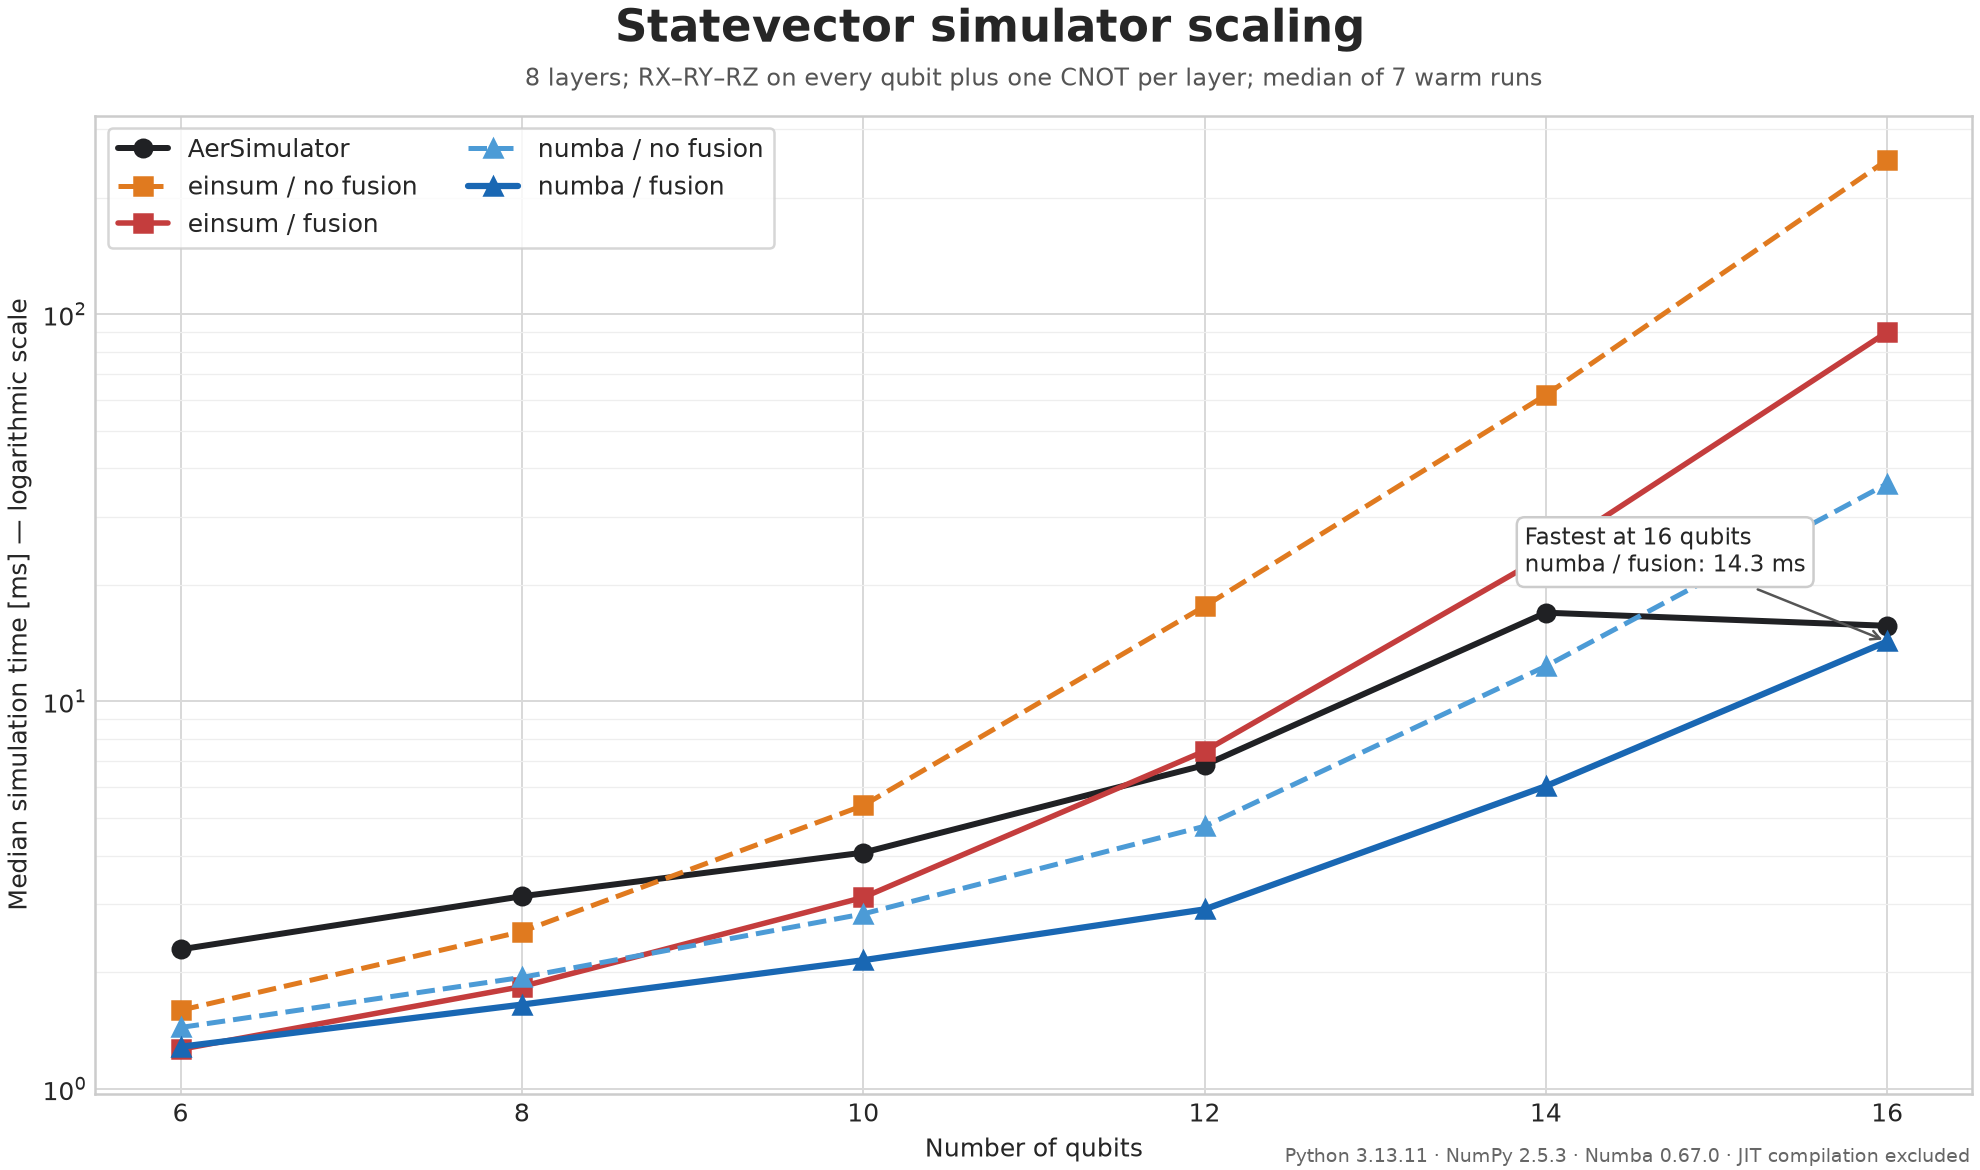
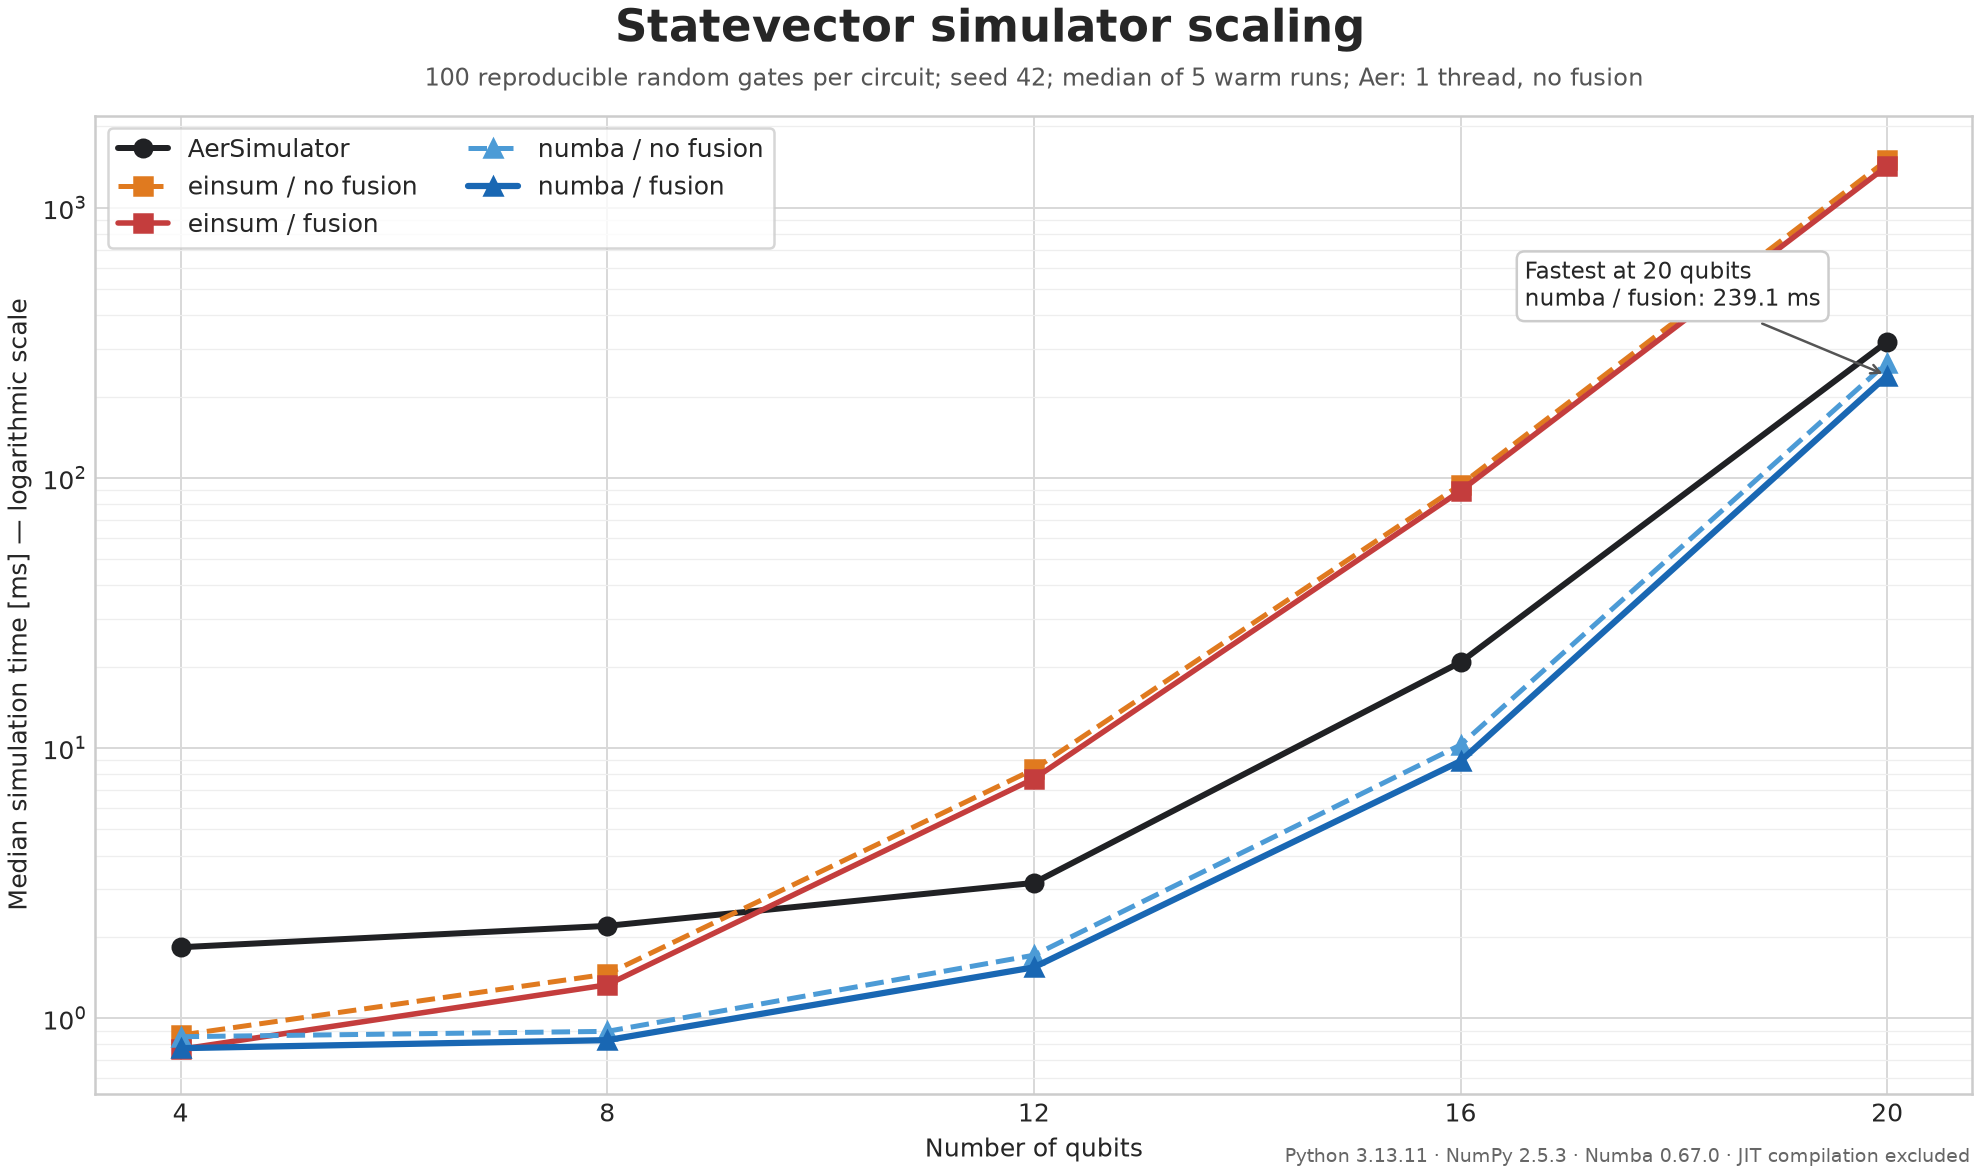
feat: update benchmarks to use reproducible random circuits with configurable gate counts and seeds

diff --git a/benchmarks/benchmark_simulators.py b/benchmarks/benchmark_simulators.py
@@ -2,7 +2,7 @@
 
 Run from the project root, for example:
 
-    uv run python benchmarks/benchmark_simulators.py --qubits 14 --layers 8
+    uv run python benchmarks/benchmark_simulators.py --qubits 14 --gates 100
 
 Numba compilation is performed during warm-up and is not part of the reported
 timings. Every implementation is checked against Aer's statevector first.
@@ -28,25 +28,40 @@ from quantum_circuit_simulator.simulator import StatevectorSimulator
 Runner = Callable[[], SimulationResult]
 
 
-def build_benchmark_circuit(num_qubits: int, layers: int) -> QuantumCircuit:
-    """Build a deterministic circuit containing fusion groups and CNOTs."""
+def build_random_benchmark_circuit(
+    num_qubits: int,
+    gate_count: int,
+    seed: int,
+) -> QuantumCircuit:
+    """Build a reproducible random circuit from the supported gate set."""
     if num_qubits < 2:
         raise ValueError("num_qubits must be at least 2")
-    if layers < 1:
-        raise ValueError("layers must be at least 1")
+    if gate_count < 1:
+        raise ValueError("gate_count must be at least 1")
 
+    random_generator = np.random.default_rng(seed)
     circuit = QuantumCircuit(num_qubits)
-    for layer in range(layers):
-        for qubit in range(num_qubits):
-            angle = (layer + 1) * (qubit + 1) / (num_qubits * layers)
-            # These consecutive gates form one useful fusion group per qubit.
-            circuit.rx(angle, qubit)
-            circuit.ry(-angle / 2, qubit)
-            circuit.rz(angle / 3, qubit)
+    single_qubit_gates = ("h", "x", "sx", "rx", "ry", "rz")
 
-        control = layer % num_qubits
-        target = (layer + 1) % num_qubits
-        circuit.cx(control, target)
+    for _ in range(gate_count):
+        # Most operations are single-qubit gates. CNOTs occur often enough to
+        # create realistic fusion boundaries without dominating the circuit.
+        if random_generator.random() < 0.8:
+            target = int(random_generator.integers(num_qubits))
+            gate_name = str(random_generator.choice(single_qubit_gates))
+            if gate_name in ("rx", "ry", "rz"):
+                angle = float(random_generator.uniform(-np.pi, np.pi))
+                getattr(circuit, gate_name)(angle, target)
+            else:
+                getattr(circuit, gate_name)(target)
+            continue
+
+        control, target = random_generator.choice(
+            num_qubits,
+            size=2,
+            replace=False,
+        )
+        circuit.cx(int(control), int(target))
 
     return circuit
 
@@ -119,9 +134,10 @@ def format_table(
 
 def collect_benchmark(
     num_qubits: int,
-    layers: int,
+    gate_count: int,
     repeats: int,
     warmups: int,
+    seed: int,
 ) -> tuple[QuantumCircuit, dict[str, list[float]]]:
     """Validate and measure all variants for one circuit size."""
     if repeats < 1:
@@ -129,12 +145,24 @@ def collect_benchmark(
     if warmups < 1:
         raise ValueError("warmups must be at least 1")
 
-    circuit = build_benchmark_circuit(num_qubits, layers)
-    config = SimulationConfig(shots=1, seed=42)
+    circuit = build_random_benchmark_circuit(
+        num_qubits,
+        gate_count,
+        seed,
+    )
+    config = SimulationConfig(shots=1, seed=seed)
 
-    # Construct the Aer backend and its save instruction once, just like the
-    # custom simulator objects below. Object construction is not benchmarked.
-    aer = AerSimulator(method="statevector", seed_simulator=config.seed)
+    # Use Aer as a deliberately unoptimized reference: its internal gate
+    # fusion is disabled and one worker thread prevents parallel statevector
+    # updates. Object construction is not part of the measured runtime.
+    aer = AerSimulator(
+        method="statevector",
+        fusion_enable=False,
+        max_parallel_threads=1,
+        max_parallel_experiments=1,
+        max_parallel_shots=1,
+        seed_simulator=config.seed,
+    )
     aer_circuit = circuit.copy()
     aer_circuit.save_statevector()
 
@@ -178,16 +206,18 @@ def collect_benchmark(
 
 def run_benchmark(
     num_qubits: int,
-    layers: int,
+    gate_count: int,
     repeats: int,
     warmups: int,
+    seed: int,
 ) -> None:
     """Validate, warm up, time, and print all simulator variants."""
     circuit, timings = collect_benchmark(
         num_qubits=num_qubits,
-        layers=layers,
+        gate_count=gate_count,
         repeats=repeats,
         warmups=warmups,
+        seed=seed,
     )
 
     print(
@@ -195,8 +225,8 @@ def run_benchmark(
         f"Numba {numba.__version__}"
     )
     print(
-        f"Circuit: {num_qubits} qubits, {layers} layers, "
-        f"{len(circuit.data)} gates; {repeats} measured repetitions"
+        f"Circuit: {num_qubits} qubits, {len(circuit.data)} random gates, "
+        f"seed {seed}; {repeats} measured repetitions"
     )
     print()
     print(
@@ -212,9 +242,10 @@ def parse_args() -> argparse.Namespace:
     """Parse command-line settings for a reproducible benchmark run."""
     parser = argparse.ArgumentParser(description=__doc__)
     parser.add_argument("--qubits", type=int, default=14)
-    parser.add_argument("--layers", type=int, default=8)
-    parser.add_argument("--repeats", type=int, default=7)
+    parser.add_argument("--gates", type=int, default=100)
+    parser.add_argument("--repeats", type=int, default=5)
     parser.add_argument("--warmups", type=int, default=2)
+    parser.add_argument("--seed", type=int, default=42)
     return parser.parse_args()
 
 
@@ -222,7 +253,8 @@ if __name__ == "__main__":
     arguments = parse_args()
     run_benchmark(
         num_qubits=arguments.qubits,
-        layers=arguments.layers,
+        gate_count=arguments.gates,
         repeats=arguments.repeats,
         warmups=arguments.warmups,
+        seed=arguments.seed,
     )

diff --git a/benchmarks/plot_benchmarks.py b/benchmarks/plot_benchmarks.py
@@ -59,9 +59,10 @@ METHOD_STYLES = {
 
 def collect_scaling_data(
     qubit_counts: list[int],
-    layers: int,
+    gate_count: int,
     repeats: int,
     warmups: int,
+    seed: int,
 ) -> dict[str, list[float]]:
     """Return median runtimes in milliseconds for every method and size."""
     medians_ms = {name: [] for name in METHOD_STYLES}
@@ -70,9 +71,10 @@ def collect_scaling_data(
         print(f"Benchmarking {num_qubits} qubits ...", flush=True)
         _, timings = collect_benchmark(
             num_qubits=num_qubits,
-            layers=layers,
+            gate_count=gate_count,
             repeats=repeats,
             warmups=warmups,
+            seed=seed,
         )
         for name in METHOD_STYLES:
             medians_ms[name].append(median(timings[name]) * 1_000)
@@ -88,7 +90,9 @@ def write_csv(
     """Store the plotted median values in a machine-readable CSV file."""
     output.parent.mkdir(parents=True, exist_ok=True)
     with output.open("w", newline="", encoding="utf-8") as csv_file:
-        writer = csv.writer(csv_file)
+        # Always use Unix line endings so regenerated results stay identical
+        # across Windows, macOS, and Linux checkouts.
+        writer = csv.writer(csv_file, lineterminator="\n")
         writer.writerow(["qubits", *medians_ms])
         for index, num_qubits in enumerate(qubit_counts):
             writer.writerow(
@@ -103,8 +107,9 @@ def create_plot(
     output: Path,
     qubit_counts: list[int],
     medians_ms: dict[str, list[float]],
-    layers: int,
+    gate_count: int,
     repeats: int,
+    seed: int,
 ) -> None:
     """Create a readable logarithmic scaling plot for the README."""
     plt.style.use("seaborn-v0_8-whitegrid")
@@ -130,8 +135,8 @@ def create_plot(
     )
     axis.set_title(
         (
-            f"{layers} layers; RX–RY–RZ on every qubit plus one CNOT per layer; "
-            f"median of {repeats} warm runs"
+            f"{gate_count} reproducible random gates per circuit; seed {seed}; "
+            f"median of {repeats} warm runs; Aer: 1 thread, no fusion"
         ),
         fontsize=9.5,
         color="#555555",
@@ -177,11 +182,12 @@ def parse_args() -> argparse.Namespace:
         "--qubits",
         type=int,
         nargs="+",
-        default=[6, 8, 10, 12, 14, 16],
+        default=[4, 8, 12, 16, 20],
     )
-    parser.add_argument("--layers", type=int, default=8)
-    parser.add_argument("--repeats", type=int, default=7)
+    parser.add_argument("--gates", type=int, default=100)
+    parser.add_argument("--repeats", type=int, default=5)
     parser.add_argument("--warmups", type=int, default=2)
+    parser.add_argument("--seed", type=int, default=42)
     parser.add_argument(
         "--output",
         type=Path,
@@ -199,17 +205,19 @@ if __name__ == "__main__":
     arguments = parse_args()
     data = collect_scaling_data(
         qubit_counts=arguments.qubits,
-        layers=arguments.layers,
+        gate_count=arguments.gates,
         repeats=arguments.repeats,
         warmups=arguments.warmups,
+        seed=arguments.seed,
     )
     write_csv(arguments.csv, arguments.qubits, data)
     create_plot(
         arguments.output,
         arguments.qubits,
         data,
-        arguments.layers,
+        arguments.gates,
         arguments.repeats,
+        arguments.seed,
     )
     print(f"Wrote plot to {arguments.output}")
     print(f"Wrote median data to {arguments.csv}")

diff --git a/docs/benchmarks.rst b/docs/benchmarks.rst
@@ -7,24 +7,31 @@ Ziel
 ``benchmarks/benchmark_simulators.py`` misst den vollständigen
 Simulationsaufruf für fünf Varianten:
 
-* Qiskit ``AerSimulator`` mit einem einmalig konstruierten Statevector-Backend;
+* Qiskit ``AerSimulator`` mit einem einmalig konstruierten Statevector-Backend,
+  deaktivierter Aer-Gate-Fusion und genau einem CPU-Thread;
 * NumPy-``einsum`` ohne Gate Fusion;
 * NumPy-``einsum`` mit Gate Fusion;
 * Numba ohne Gate Fusion;
 * Numba mit Gate Fusion.
 
-Der erzeugte Circuit enthält pro Qubit jeweils ``rx``, ``ry`` und ``rz`` als
-zusammenhängende Fusionsgruppe sowie ein CNOT pro Layer.
+Für jede Qubitzahl wird ein reproduzierbarer Zufallscircuit mit exakt 100
+Gates erzeugt. Mit einer Wahrscheinlichkeit von 80 % wird eines der
+Ein-Qubit-Gates ``h``, ``x``, ``sx``, ``rx``, ``ry`` oder ``rz`` auf ein
+zufälliges Qubit angewendet. Die übrigen 20 % sind CNOTs mit verschiedenen,
+zufällig gewählten Control- und Target-Qubits. Der feste Seed 42 macht die
+Circuits und damit den Vergleich reproduzierbar.
 
 Backendobjekte und die Aer-``save_statevector``-Instruktion werden vor der
 Messung einmalig vorbereitet. Gemessen wird bei allen Varianten nur der
 vollständige Simulationsaufruf mit bereits vorhandenem Circuit und Backend.
+Die Aer-Optionen ``fusion_enable=False`` und ``max_parallel_threads=1``
+verhindern dabei interne Gate Fusion und parallele Statevector-Updates.
 
 Skalierungsplot
 ---------------
 
-Der für die README erzeugte Plot vergleicht mehrere Qubitzahlen auf einer
-logarithmischen Zeitachse:
+Der für die README erzeugte Plot vergleicht standardmäßig 4, 8, 12, 16 und
+20 Qubits auf einer logarithmischen Zeitachse:
 
 .. image:: images/benchmark_simulators.png
    :alt: Laufzeitvergleich von Aer, einsum und Numba mit und ohne Gate Fusion
@@ -53,16 +60,21 @@ Parameter können über die Kommandozeile verändert werden:
 .. code-block:: console
 
    uv run python benchmarks/benchmark_simulators.py \
-       --qubits 16 \
-       --layers 10 \
-       --repeats 9 \
+       --qubits 20 \
+       --gates 100 \
+       --seed 42 \
+       --repeats 5 \
        --warmups 2
 
 ``--qubits``
    Anzahl der Qubits. Der Statevector besitzt :math:`2^n` Amplituden.
 
-``--layers``
-   Anzahl der Gate-Layer des deterministischen Benchmark-Circuits.
+``--gates``
+   Exakte Anzahl der zufällig erzeugten Gates im Circuit.
+
+``--seed``
+   Seed des Zufallszahlengenerators. Derselbe Seed erzeugt für dieselbe
+   Qubitzahl und Gate-Anzahl denselben Circuit.
 
 ``--repeats``
    Zahl der gemessenen vollständigen Simulationsläufe.

diff --git a/README.md b/README.md
@@ -82,8 +82,12 @@ result = simulator.simulate(circuit, SimulationConfig(shots=1_000, seed=42))
 
 Der folgende End-to-End-Benchmark vergleicht Qiskit Aer mit beiden eigenen
 Backends, jeweils mit und ohne Gate Fusion. Dargestellt ist der Median aus
-sieben warmen Läufen; die Numba-JIT-Kompilierung ist nicht Teil der Messung.
-Vor jeder Messung werden alle Statevectoren gegen Aer validiert.
+fünf warmen Läufen für 4, 8, 12, 16 und 20 Qubits. Jeder Circuit enthält
+exakt 100 mit Seed 42 reproduzierbar erzeugte Gates: ungefähr 80 % zufällige
+Ein-Qubit-Gates und 20 % CNOTs. Die Numba-JIT-Kompilierung ist nicht Teil der
+Messung. Für Aer sind die interne Gate Fusion und parallele Berechnung
+deaktiviert, sodass Aer einen CPU-Thread verwendet. Vor jeder Messung werden
+alle Statevectoren gegen Aer validiert.
 
 ![Skalierungsbenchmark der Simulationsmethoden](docs/images/benchmark_simulators.png)
 
@@ -98,9 +102,10 @@ Ein einzelner Benchmark mit tabellarischer Ausgabe wird so gestartet:
 
 ```bash
 uv run python benchmarks/benchmark_simulators.py \
-    --qubits 14 \
-    --layers 8 \
-    --repeats 7 \
+    --qubits 20 \
+    --gates 100 \
+    --seed 42 \
+    --repeats 5 \
     --warmups 2
 ```
 
